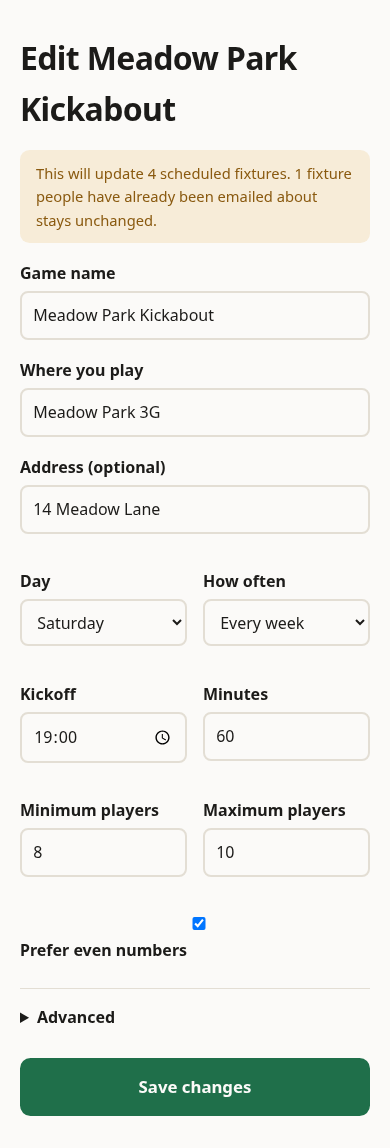
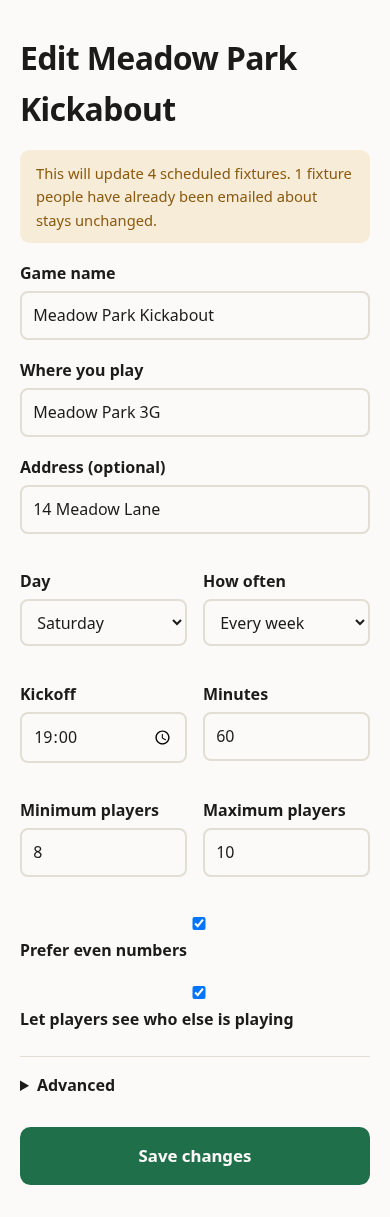
docs: document squad visibility and amend BR-25

diff --git a/test/browser/guide-world.ts b/test/browser/guide-world.ts
@@ -143,6 +143,13 @@ export interface GuideWorld {
    */
   demoGameId: string;
   demoFixtureId: string;
+  /**
+   * A response token for a player in a third, small game whose organiser has
+   * turned off "Let players see who else is playing" — see
+   * `buildVisibilityDemo` for why this needs its own game rather than
+   * toggling the Meadow Park Kickabout's own setting.
+   */
+  hiddenSquadToken: string;
 }
 
 export async function buildGuideWorld(page: Page, browser: Browser): Promise<GuideWorld> {
@@ -272,6 +279,7 @@ export async function buildGuideWorld(page: Page, browser: Browser): Promise<Gui
   }
 
   const demo = await buildOverrideDemo(page, browser, slot);
+  const hiddenSquadToken = await buildVisibilityDemo(page, browser, slot);
 
   return {
     gameId,
@@ -284,6 +292,7 @@ export async function buildGuideWorld(page: Page, browser: Browser): Promise<Gui
     removablePlayerId: idFor(outEmail),
     demoGameId: demo.gameId,
     demoFixtureId: demo.fixtureId,
+    hiddenSquadToken,
     cancelToken: await signCancelToken(
       {
         ownerPlayerId: idFor(GUIDE_ORGANISER),
@@ -419,6 +428,102 @@ async function buildOverrideDemo(
   await page.waitForLoadState("networkidle");
 
   return { gameId, fixtureId: fixture.id };
+}
+
+/**
+ * A third, small game solely for chapter 3's "squad hidden" screenshot.
+ *
+ * The Meadow Park Kickabout keeps its default — the setting on — because
+ * chapters 1, 3, 4 and 6 already quote its exact squad and its names
+ * verbatim ("ten people in", Ade Sowande as the one who never answers).
+ * Turning that game's setting off would silently falsify every one of those
+ * sentences on the next capture. This game exists only to show the other
+ * state, and nothing else in the guide depends on its numbers.
+ *
+ * The setting is turned off through the edit form itself — not written to
+ * the database directly — so the screenshot depicts a state the app itself
+ * produced, exactly as BR-33 and its checkbox are meant to be used.
+ */
+async function buildVisibilityDemo(
+  page: Page,
+  browser: Browser,
+  slot: { weekday: string; kickoffTime: string },
+): Promise<string> {
+  const HIDDEN_SQUAD = [
+    { name: "Isla Ferreira", email: "isla@example.test" },
+    { name: "Noah Kessler", email: "noah@example.test" },
+  ] as const;
+
+  await page.goto("/g/new");
+  await page.fill('input[name="name"]', "Oakfield Six-a-side");
+  await page.fill('input[name="venueName"]', "Oakfield Astro");
+  await page.fill('input[name="venueAddress"]', "2 Oak Lane");
+  await page.selectOption('select[name="weekday"]', slot.weekday);
+  // Later again than both the Meadow Park and Riverside Turf kickoffs, same
+  // weekday and reminder instant, so this fixture always sorts after both of
+  // theirs and never disturbs `dashboard`'s `nth=0` card.
+  await page.fill('input[name="kickoffTime"]', "21:00");
+  await page.fill('input[name="minPlayers"]', "1");
+  await page.fill('input[name="maxPlayers"]', "4");
+  await page.click('button[type="submit"]');
+  await page.waitForURL(/\/g\/[^/]+$/);
+
+  const gameId = new URL(page.url()).pathname.split("/")[2]!;
+  const inviteToken = (await page.inputValue("#invite-url")).split("/j/")[1]!;
+
+  for (const person of HIDDEN_SQUAD) {
+    const context = await browser.newContext();
+    const joinerPage = await context.newPage();
+    await joinerPage.goto(`/j/${inviteToken}`);
+    await joinerPage.fill('input[name="name"]', person.name);
+    await joinerPage.fill('input[name="email"]', person.email);
+    await joinerPage.click('button[type="submit"]');
+    await joinerPage.waitForLoadState("networkidle");
+    await context.close();
+  }
+
+  await page.request.get(`${BASE_URL}/cdn-cgi/handler/scheduled?cron=15+3+*+*+*`);
+  await page.request.get(`${BASE_URL}/cdn-cgi/handler/scheduled?cron=0+*+*+*+*`);
+
+  const [fixture] = await query<{ id: string }>(
+    `SELECT id FROM fixtures WHERE game_id = '${gameId}'
+       AND lifecycle = 'open' ORDER BY kicks_off_at LIMIT 1`,
+  );
+  if (!fixture) throw new Error(`buildVisibilityDemo: game ${gameId} has no open fixture`);
+
+  const players = await query<{ id: string; email: string }>(
+    `SELECT id, email FROM players WHERE email LIKE '%@example.test'`,
+  );
+  const idFor = (email: string): string => {
+    const found = players.find((p) => p.email === email);
+    if (!found) throw new Error(`buildVisibilityDemo: no player row for ${email}`);
+    return found.id;
+  };
+
+  // The organiser plus both joiners answer in — three in, so the hidden
+  // count reads "3 in so far." rather than the less legible "1".
+  const answering = [GUIDE_ORGANISER, ...HIDDEN_SQUAD.map((p) => p.email)];
+  let hiddenSquadToken = "";
+  for (const email of answering) {
+    const token = await signResponseToken(
+      { playerId: idFor(email), fixtureId: fixture.id, expiresAt: Date.now() + 7 * 864e5 },
+      RESPONSE_SECRET,
+    );
+    await page.request.post(`${BASE_URL}/r/${token}`, {
+      form: { intent: "in" },
+      headers: { origin: BASE_URL },
+    });
+    if (email === HIDDEN_SQUAD[0]!.email) hiddenSquadToken = token;
+  }
+
+  // Turn the setting off through the edit form — the same route and the same
+  // checkbox an organiser uses — not a direct write.
+  await page.goto(`/g/${gameId}/edit`);
+  await page.uncheck("#squadVisibleToPlayers");
+  await page.click('button[type="submit"]');
+  await page.waitForURL(new RegExp(`/g/${gameId}$`));
+
+  return hiddenSquadToken;
 }
 
 /** The squad, for the guide's prose and its tests. */

diff --git a/test/browser/guide-shots.ts b/test/browser/guide-shots.ts
@@ -127,6 +127,32 @@ export const SHOTS: Shot[] = [
     persona: "anonymous",
   },
   {
+    id: "respond-squad-shown",
+    chapter: "03-answering-a-reminder",
+    title: "Who else is playing",
+    route: "/r/:token",
+    shows:
+      "The squad list on the response page, with everyone's name and answer, which is " +
+      "what a player sees while their organiser leaves the default setting on.",
+    // The same page as `respond-in`, cropped to the squad list — reusing that
+    // page's URL is deliberate (see `invite`/`invite-qr` above for the same
+    // pattern), so this needs no game of its own.
+    path: (w) => `/r/${w.inToken}`,
+    persona: "anonymous",
+    element: "ul.squad",
+  },
+  {
+    id: "respond-squad-hidden",
+    chapter: "03-answering-a-reminder",
+    title: "When it's turned off",
+    route: "/r/:token",
+    shows:
+      "The response page for a game whose organiser has turned the setting off: a " +
+      "headcount and the player's own answer, no other names.",
+    path: (w) => `/r/${w.hiddenSquadToken}`,
+    persona: "anonymous",
+  },
+  {
     id: "respond-out",
     chapter: "04-when-someone-drops-out",
     title: "Changing your mind",
@@ -174,6 +200,18 @@ export const SHOTS: Shot[] = [
     shows: "The game's settings, filled in with what it currently uses.",
     path: (w) => `/g/${w.gameId}/edit`,
     persona: "organiser",
+  },
+  {
+    id: "squad-visibility-checkbox",
+    chapter: "05-running-your-squad",
+    title: "Choosing who sees the squad",
+    route: "/g/:id/edit",
+    shows:
+      "The Let players see who else is playing checkbox on the edit form, checked " +
+      "because that's the default every game starts with.",
+    path: (w) => `/g/${w.gameId}/edit`,
+    persona: "organiser",
+    element: '.field:has(#squadVisibleToPlayers)',
   },
   {
     id: "owner-fixture",

diff --git a/docs/superpowers/specs/2026-08-10-make-the-team-design.md b/docs/superpowers/specs/2026-08-10-make-the-team-design.md
@@ -275,9 +275,10 @@ Numbered so tests can reference them.
 
 - **BR-23** Responding to a fixture requires only a valid response token (§2.6). No account, no session.
 - **BR-24** A response token is scoped to exactly one player and one fixture, and expires 24 hours after that fixture's kickoff. A token presented for a `played` or `cancelled` fixture renders a read-only page explaining why, never an error.
-- **BR-25** A valid response token authorises viewing that single fixture's squad. Viewing any other fixture, any other game, the player dashboard, or performing any Owner action requires an authenticated session.
+- **BR-25** A valid response token authorises viewing that single fixture's squad, subject to the game's squad-visibility setting (BR-33). Viewing any other fixture, any other game, the player dashboard, or performing any Owner action requires an authenticated session.
 - **BR-26** A visitor holding an invite link sees only: game name, venue, date, time, counts, and members rendered as first name plus surname initial ("Edward C."). Never email addresses, never full surnames.
 - **BR-27** Every Owner override is recorded in `audit_log` with actor, timestamp and previous value, and is visibly attributed in the UI ("marked in by Edward").
+- **BR-33** A Game carries a squad-visibility setting, default on. When it is off, players see a fixture's counts and their own response but not other players' names or responses. Owners are unaffected.
 
 ## 1.11 Notification catalogue
 
@@ -633,6 +634,7 @@ Each milestone is independently deployable and demonstrable.
 | **M5** | Better Auth — magic link, then passkeys. Player dashboard. Allowlist gate. | A player can sign in and see all their upcoming fixtures across games |
 | **M6** | Owner UI — create/edit game, manage squad, overrides, guests, invite link and QR | J1 and J6 work end to end with no seed data |
 | **M7** | Polish — empty states, error pages, accessibility pass, unsubscribe and leave-game flows, delete-my-data, `/privacy` stub | Usable by a stranger with no explanation, and a player can remove themselves and their data |
+| **M8** | Squad visibility — an owner-controlled setting, and a player's view of a game | A player can see who else is playing, and an owner can turn that off |
 
 M1–M4 are the product. M5–M7 make it shareable. Team picking, score recording, and the funding page come after, as separate specs.
 

diff --git a/docs/guide/03-answering-a-reminder.md b/docs/guide/03-answering-a-reminder.md
@@ -17,9 +17,9 @@ recorded yet: the page asks **Can you make it?** and waits for you.
 
 **Confirmed — the game is on** means enough people have already said yes for
 the game to go ahead. Beside it, **0 spots left** is how many places are still
-free — none, in this one, which is what the waitlist below is about. The squad
-list shows who has answered what, so you can see who you'd be playing with
-before you decide.
+free — none, in this one, which is what the waitlist below is about. When your
+organiser allows it, the squad list shows who has answered what, so you can
+see who you'd be playing with before you decide — more on that below.
 
 ## Saying you're in
 
@@ -35,6 +35,20 @@ is still free for somebody else.
 
 Both buttons stay on the page afterwards, so you can change your mind by
 tapping the other one any time before kickoff.
+
+## Who else is playing
+
+![The squad list on the response page, every name and answer visible](images/respond-squad-shown.png)
+
+By default, this is what you see: everyone in the squad, and what each of
+them answered.
+
+![A response page for a game with that turned off, showing a headcount and the player's own answer but no other names](images/respond-squad-hidden.png)
+
+Your organiser can turn that off. Do that, and the page shows a count instead
+of the list — **3 in so far.**, here — plus your own answer above it. You
+still know whether there are enough people and whether you're in. You just
+don't see who anyone else is.
 
 ## When it is already full
 

diff --git a/docs/guide/05-running-your-squad.md b/docs/guide/05-running-your-squad.md
@@ -56,6 +56,20 @@ the imminent game is a job for the group chat, or for calling it off — see
 **Advanced** hides the settings you'll rarely want. **Save changes** applies
 everything at once.
 
+## Choosing who sees the squad
+
+![The Let players see who else is playing checkbox on the edit form, checked](images/squad-visibility-checkbox.png)
+
+**Let players see who else is playing**, further down the same form, decides
+what a player finds on their response page: everyone's name and answer, or
+just a count. It's checked by default, which is why the walkthrough in
+[answering a reminder](03-answering-a-reminder.md) shows names.
+
+Uncheck it and save, and every player's page switches to counts only — no
+other names, no other answers, just theirs and how many are in so far. It
+changes nothing for you: as the organiser you always see the whole squad,
+whatever this is set to.
+
 ## One fixture at a time
 
 Every fixture has its own page, separate from the game page above — tap its
